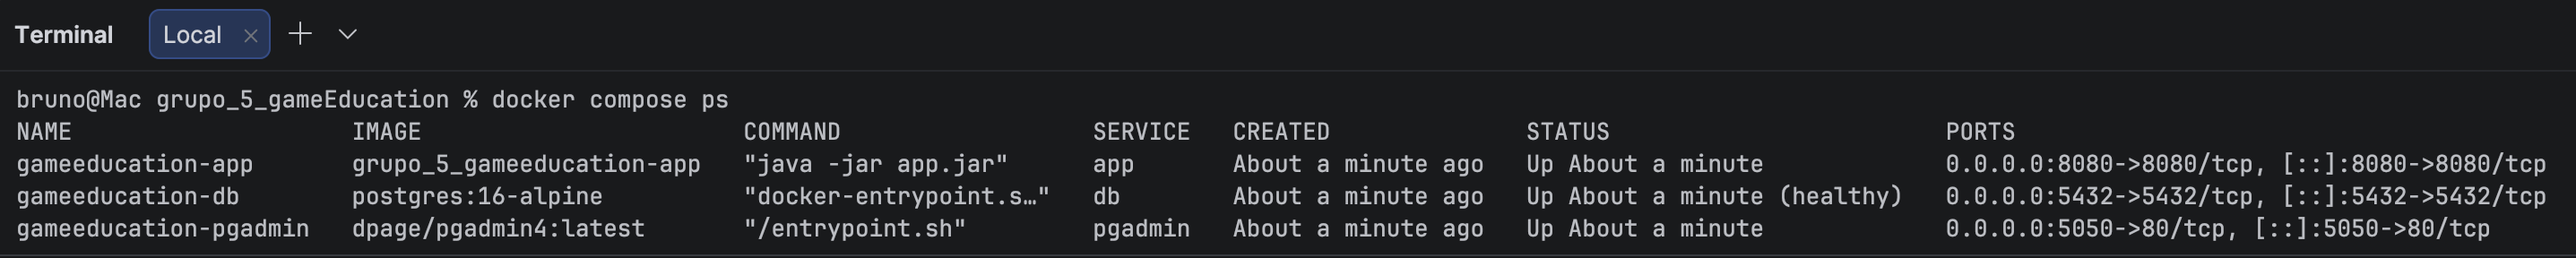
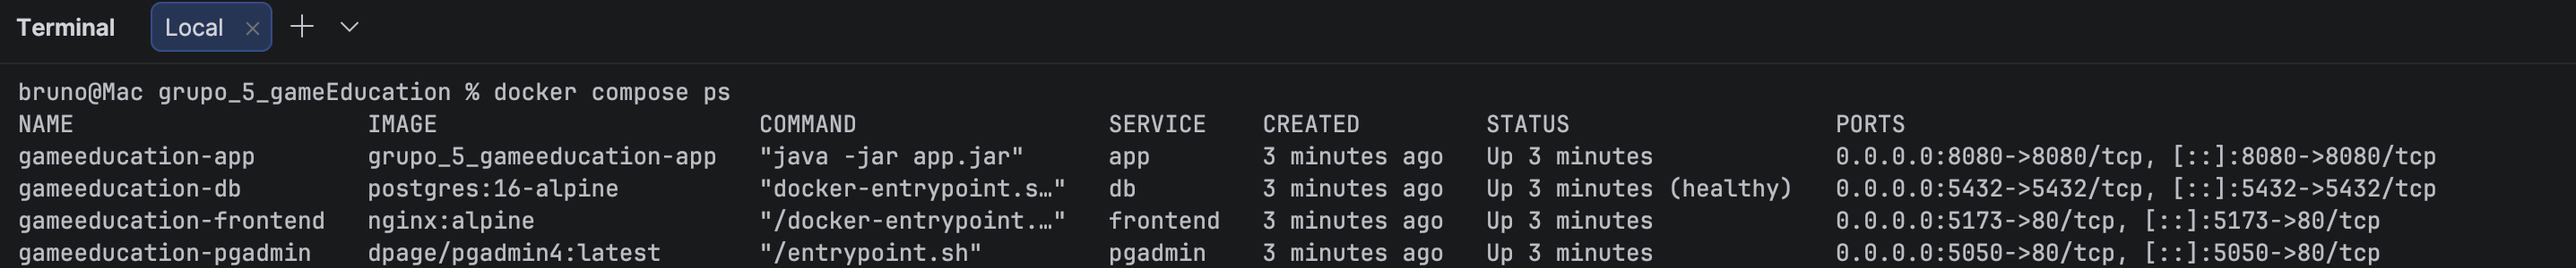
docs: atualiza print do docker com o front e ignora a pasta do cursor

Changed region(s): [[0.0, 0.3125, 1.0, 1.0], [0.0, 0.0, 0.1239, 0.25]]

diff --git a/README.md b/README.md
@@ -304,7 +304,7 @@ Cobertura de 100% em `Aluno`, `Curso` e `Plano`, sem vermelho nem amarelo. O BLU
 
 ### Docker
 
-Aplicação, PostgreSQL e pgAdmin rodando juntos.
+Aplicação, front-end (Nginx), PostgreSQL e pgAdmin rodando juntos.
 
 ![Docker](evidencias/prints/04-docker-ps.png)
 
